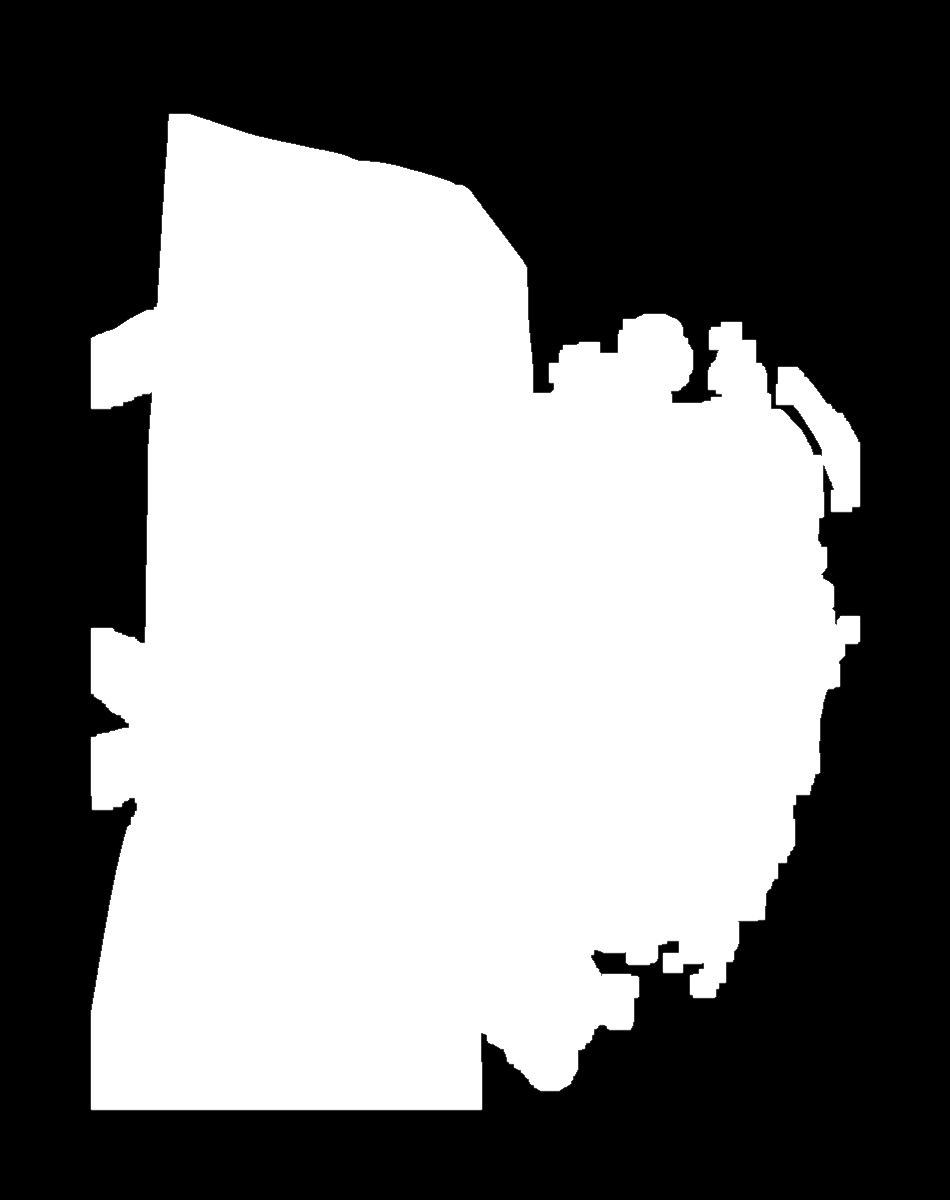
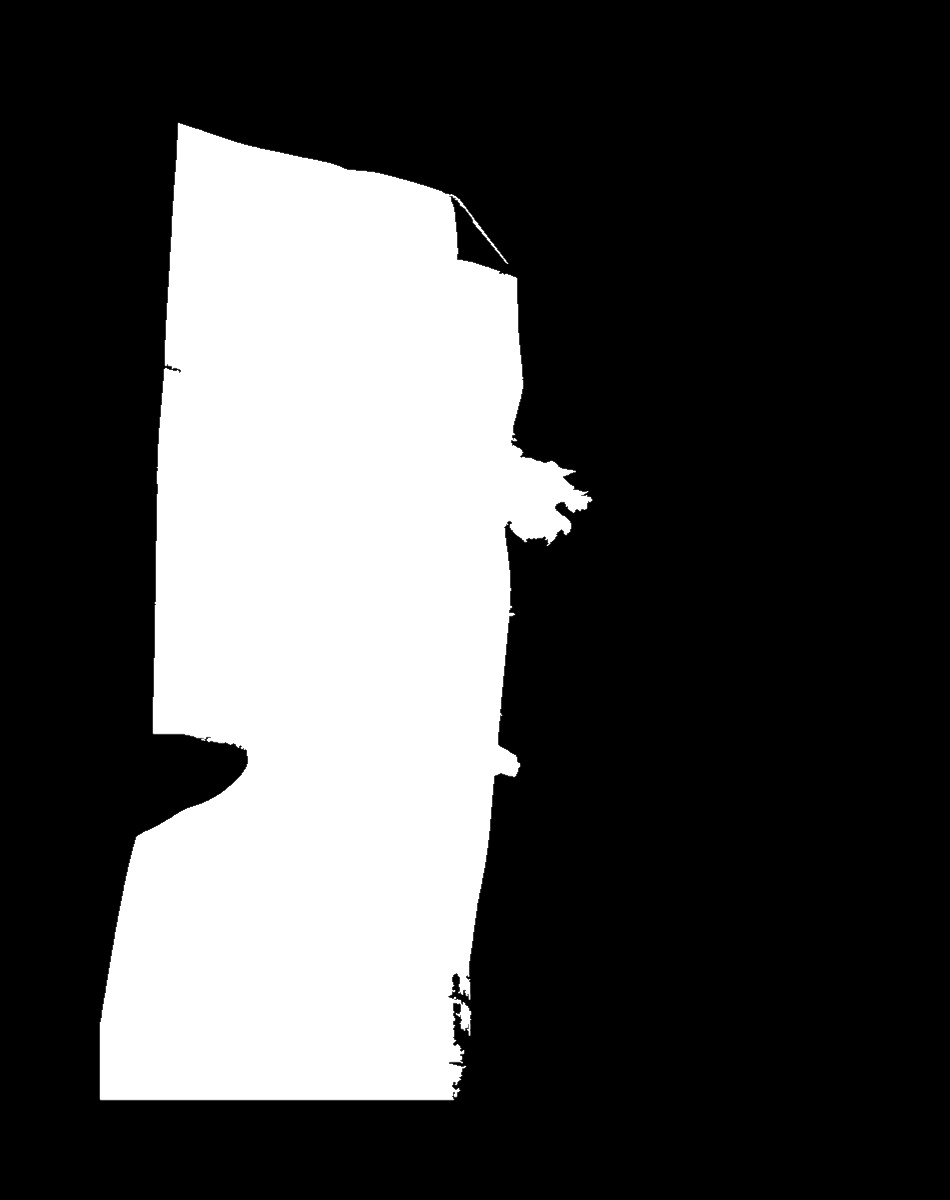
fixed 1002

Changed region(s): [[0.0916, 0.0925, 0.9158, 0.925]]

diff --git a/src/proceser.py b/src/proceser.py
@@ -11,45 +11,38 @@ def find_conturs(ogImage):
 
     Returns None if no contours were found
     """
-    #ogImage = cv2.resize(ogImage, (0, 0), fx = 3, fy = 3, interpolation = cv2.INTER_LINEAR )
+   
     image = ogImage.copy()
     
     # add border
     image = cv2.copyMakeBorder(image, 100, 100, 100, 100, cv2.BORDER_CONSTANT, None, [0,0,0,0])
-    ogImage1 = cv2.copyMakeBorder(ogImage, 100, 100, 100, 100, cv2.BORDER_CONSTANT, None, [0,0,0,0])
-    cv2.imwrite("./output/inital.jpg", ogImage1)
+    cv2.imwrite("./output/init.jpg", image)
+
 
     #try to cut out non-important parts
-    image = cv2.cvtColor(image, cv2.COLOR_BGR2GRAY)
-    image = cv2.threshold(image, 100, 255, cv2.THRESH_BINARY)[1]
-    image = cv2.dilate(image, np.ones((20, 20), np.uint8))
-    cv2.imwrite("./output/test.jpg", image)
-    contours, _ = cv2.findContours(image, cv2.RETR_LIST, cv2.CHAIN_APPROX_SIMPLE )
+    Mimage = cv2.cvtColor(image, cv2.COLOR_BGR2GRAY)
+    cv2.imwrite("./output/g.jpg", Mimage)
+    Mimage = cv2.threshold(Mimage, 150, 255, cv2.THRESH_BINARY)[1]
+    contours, _ = cv2.findContours(Mimage, cv2.RETR_EXTERNAL, cv2.CHAIN_APPROX_SIMPLE )
+
+    cv2.imwrite("./output/Mimage.jpg", Mimage)
     contours = sorted(contours, key=cv2.contourArea, reverse=True)[:5]
-    receipt_contour = None
-    for contour in contours:
-        perimeter = cv2.arcLength(contour, True)
-        approx_curve = cv2.approxPolyDP(contour, 0.05 * perimeter, True)
-        if len(approx_curve) == 4:
-            receipt_contour = approx_curve
-            break
-            
+    temp = cv2.drawContours(image=image, contours=contours, contourIdx=0, color=(255, 255, 0), thickness=1, lineType=cv2.LINE_AA)
+    cv2.imwrite("./output/temp.jpg", temp)
+
     #cut out targeted area
-    mask = np.zeros_like(ogImage1)
-    mask = cv2.drawContours(image=mask, contours=contours, contourIdx=0, color=(255, 255, 255), thickness=cv2.FILLED, lineType=cv2.LINE_AA)
+    mask = np.zeros_like(image)
+    mask = cv2.drawContours(image=mask, contours=contours, contourIdx=0, color=(255, 255, 255), thickness=-1, lineType=cv2.LINE_AA)
     out = np.zeros_like(mask)
-    out[mask == 255] = ogImage1[mask == 255]
+    out[mask == 255] = image[mask == 255]
     cv2.imwrite("./output/mask.jpg", mask)
-    cv2.imwrite("./output/mask1.jpg", out)
+    cv2.imwrite("./output/crop-b.jpg", out)
     
     #crop
-    leeway = 0
     gray = cv2.cvtColor(mask,cv2.COLOR_BGR2GRAY)
-    _,thresh = cv2.threshold(gray,1,255,cv2.THRESH_BINARY)
-    contours,hierarchy = cv2.findContours(thresh,cv2.RETR_EXTERNAL,cv2.CHAIN_APPROX_SIMPLE)
+    contours = cv2.findContours(gray,cv2.RETR_EXTERNAL,cv2.CHAIN_APPROX_SIMPLE)[0]
     cnt = contours[0]
     x,y,w,h = cv2.boundingRect(cnt)
-    #cv2.imwrite('./output/temp.jpg',temp)
     out = out[y:y+h,x:x+w]
     cv2.imwrite('./output/crop.jpg',out)
     
